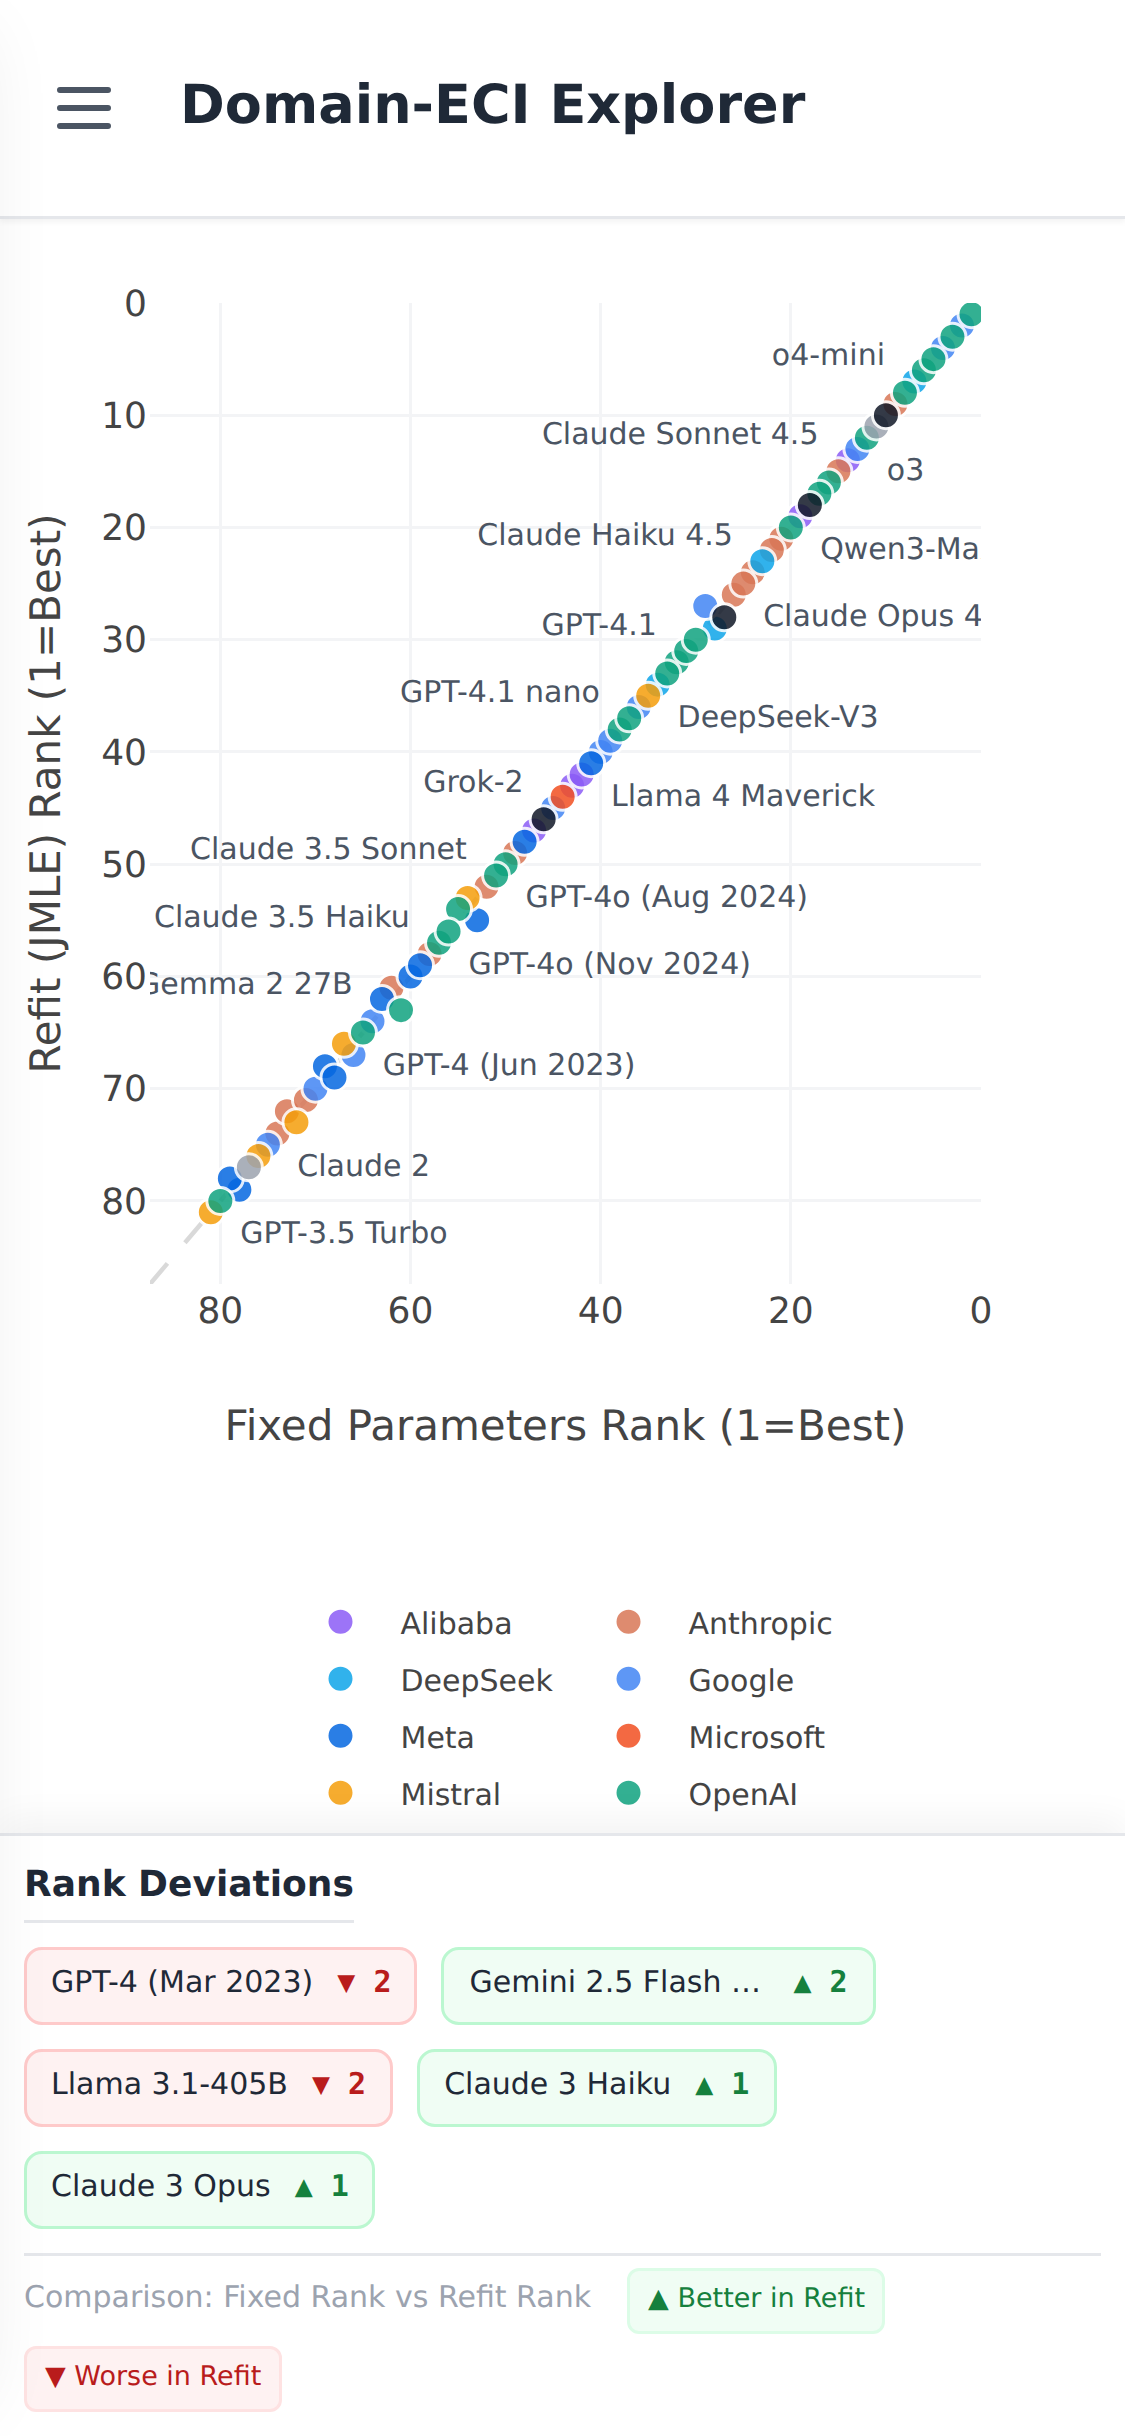
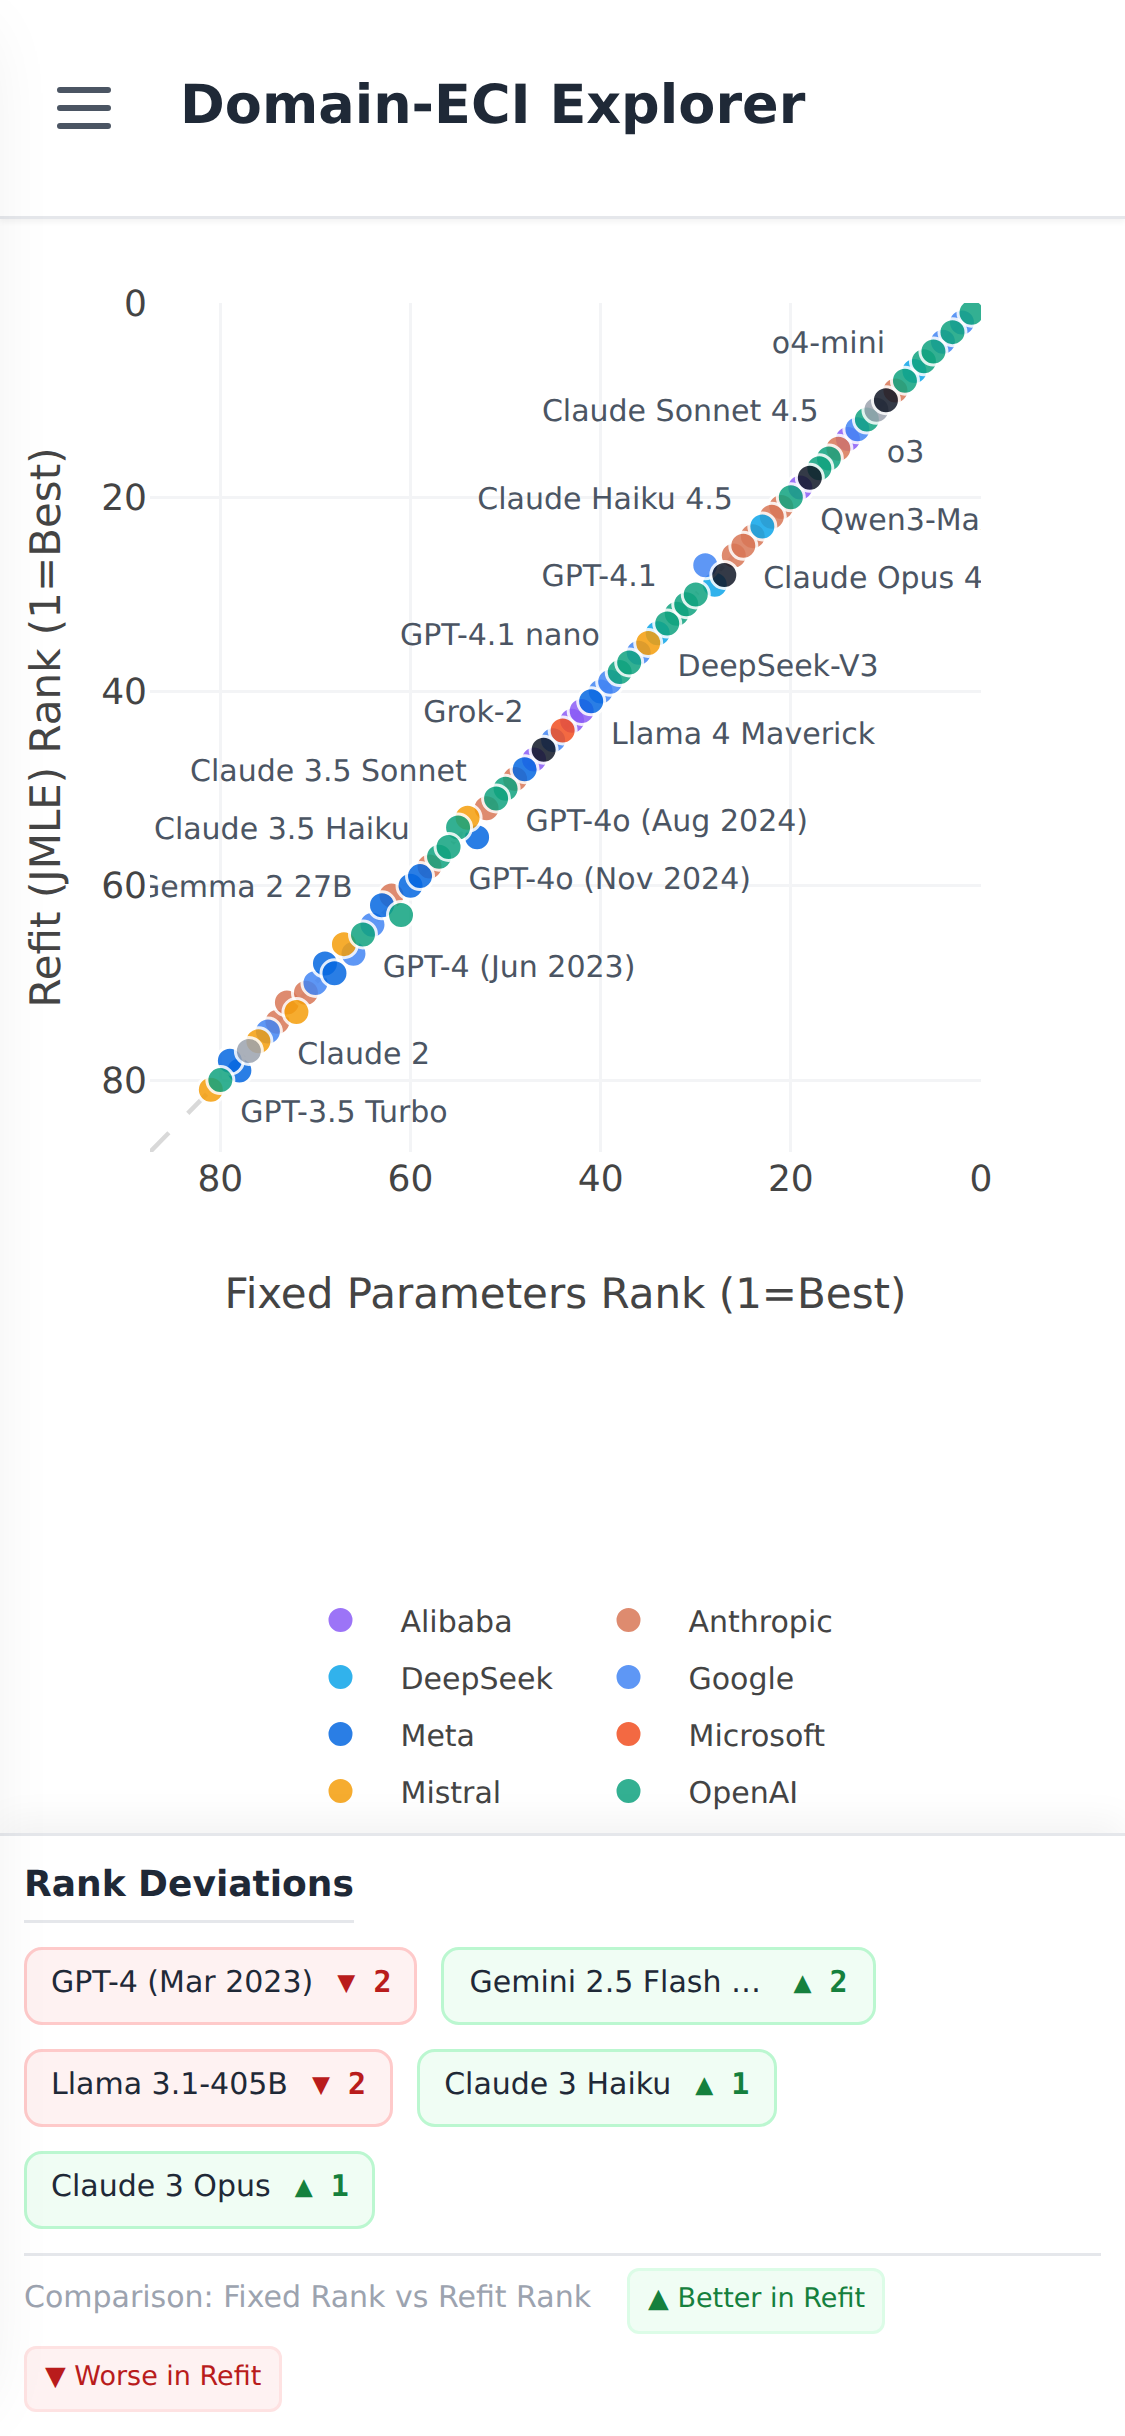
Deploy preview for PR 22 🛫

diff --git a/pr-preview/pr-22/domain_eci.html b/pr-preview/pr-22/domain_eci.html
@@ -1251,10 +1251,10 @@
                     yaxis: { title: { text: 'Domain-specific ECI', font: { weight: 600 } }, gridcolor: '#f3f4f6', zeroline: false, automargin: true },
                     hovermode: 'closest',
                     template: 'plotly_white',
-                    margin: isMobile ? { t: 20, r: 40, l: 40, b: 120 } : { t: 90, r: 50, l: 80, b: 100 },
+                    margin: isMobile ? { t: 20, r: 40, l: 40, b: 200 } : { t: 90, r: 50, l: 80, b: 100 },
                     legend: {
                         orientation: 'h',
-                        y: isMobile ? -0.3 : -0.15,
+                        y: isMobile ? -0.5 : -0.15,
                         x: 0.5,
                         xanchor: 'center',
                         font: { size: isMobile ? 10 : 13, weight: 500 }
